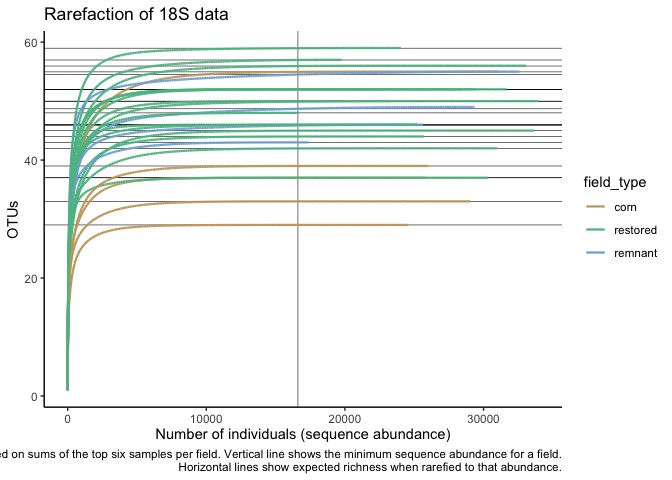
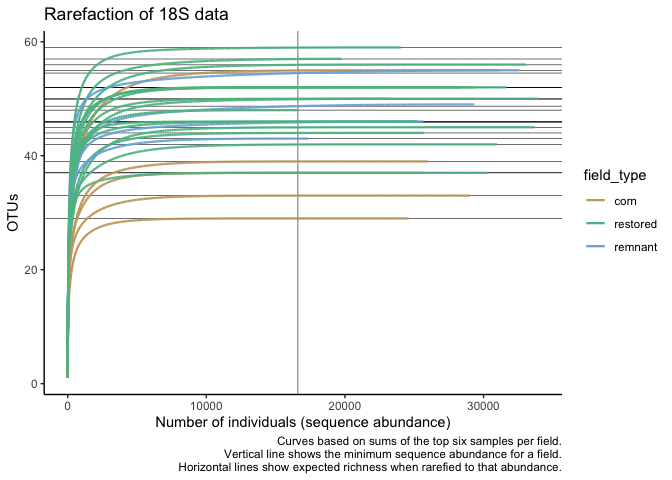
EOD

diff --git a/microbial_diversity.md b/microbial_diversity.md
@@ -35,19 +35,8 @@ Last updated: 13 March, 2023
     id="toc-otus-prepost-corrections">OTUs pre/post corrections</a>
   - <a href="#microbial-diversity" id="toc-microbial-diversity">Microbial
     diversity</a>
-  - <a href="#fungi-its-gene" id="toc-fungi-its-gene">Fungi (ITS gene)</a>
-    - <a href="#diversity-across-field-types"
-      id="toc-diversity-across-field-types">Diversity across field types</a>
-    - <a href="#key-observations" id="toc-key-observations">Key
-      observations:</a>
-    - <a href="#diversity-over-time" id="toc-diversity-over-time">Diversity
-      over time</a>
-  - <a href="#amf-18s-gene" id="toc-amf-18s-gene">AMF (18S gene)</a>
-    - <a href="#key-observations-1" id="toc-key-observations-1">Key
-      observations:</a>
-    - <a href="#diversity-over-time-at-blue-mounds-amf"
-      id="toc-diversity-over-time-at-blue-mounds-amf">Diversity over time at
-      Blue Mounds (AMF)</a>
+    - <a href="#fungi-its-gene" id="toc-fungi-its-gene">Fungi (ITS gene)</a>
+    - <a href="#amf-18s-gene" id="toc-amf-18s-gene">AMF (18S gene)</a>
 
 # Description
 
@@ -345,7 +334,7 @@ ggplot(its_rarecurve, aes(x = Sample, y = Species, group = Site)) +
     labs(x = "Number of individuals (sequence abundance)",
          y = "OTUs",
          title = "Rarefaction of ITS data",
-         caption = "Curves based on sums of the top six samples per field. Vertical line shows the minimum sequence abundance for a field.\nHorizontal lines show expected richness when rarefied to that abundance.") +
+         caption = "Curves based on sums of the top six samples per field.\nVertical line shows the minimum sequence abundance for a field.\nHorizontal lines show expected richness when rarefied to that abundance.") +
     theme_classic()
 ```
 
@@ -353,6 +342,59 @@ ggplot(its_rarecurve, aes(x = Sample, y = Species, group = Site)) +
 
 At the minimum sequencing depth available, there is no consequential
 relationship between sequence abundance and species accumulation.
+
+This result can be corroborated by comparing the total sequences
+recovered per field vs. the richness recovered per field. A relationship
+should not be evident, or fields with more sequences could have bias to
+higher richness based on sequencing depth (or it could be real…there’s
+no way to know). This can be examined visually. The raw ITS data are
+used (these are sums of the top six samples per field as of 2023-03-13).
+
+``` r
+its_seqot <- 
+    data.frame(
+        field_key = spe$its_raw[, 1],
+        seqs = apply(spe$its_raw[, -1], 1, sum),
+        otus = apply(spe$its_raw[, -1] > 0, 1, sum)
+    ) %>% left_join(sites, by = join_by(field_key))
+```
+
+``` r
+ggplot(its_seqot, aes(x = seqs, y = otus)) +
+    geom_point(aes(fill = field_type), shape = 21, size = 2) +
+    scale_fill_discrete_qualitative(palette = "Harmonic") +
+    labs(x = "Sequence abundance per field",
+         y = "OTUs recovered per field",
+         caption = "Raw ITS data used, sum of top 6 samples per field") +
+    theme_classic()
+```
+
+<img src="microbial_diversity_files/figure-gfm/its_seqs_otus_fig-1.png" style="display: block; margin: auto;" />
+
+``` r
+summary(lm(otus ~ seqs, data = its_seqot))
+```
+
+    ## 
+    ## Call:
+    ## lm(formula = otus ~ seqs, data = its_seqot)
+    ## 
+    ## Residuals:
+    ##      Min       1Q   Median       3Q      Max 
+    ## -115.147  -34.027    8.224   54.541   83.505 
+    ## 
+    ## Coefficients:
+    ##              Estimate Std. Error t value Pr(>|t|)  
+    ## (Intercept) 2.141e+02  1.015e+02   2.109   0.0460 *
+    ## seqs        3.335e-03  1.756e-03   1.899   0.0701 .
+    ## ---
+    ## Signif. codes:  0 '***' 0.001 '**' 0.01 '*' 0.05 '.' 0.1 ' ' 1
+    ## 
+    ## Residual standard error: 57.2 on 23 degrees of freedom
+    ## Multiple R-squared:  0.1356, Adjusted R-squared:  0.09801 
+    ## F-statistic: 3.608 on 1 and 23 DF,  p-value: 0.07012
+
+The relationship is poor and not significant.
 
 ### AMF dataset
 
@@ -430,7 +472,7 @@ ggplot(amf_rarecurve, aes(x = Sample, y = Species, group = Site)) +
     labs(x = "Number of individuals (sequence abundance)",
          y = "OTUs",
          title = "Rarefaction of 18S data",
-         caption = "Curves based on sums of the top six samples per field. Vertical line shows the minimum sequence abundance for a field.\nHorizontal lines show expected richness when rarefied to that abundance.") +
+         caption = "Curves based on sums of the top six samples per field.\nVertical line shows the minimum sequence abundance for a field.\nHorizontal lines show expected richness when rarefied to that abundance.") +
     theme_classic()
 ```
 
@@ -498,9 +540,9 @@ Hill’s numbers, brief description:
 div <- Map(calc_diversity, spe[c(2,4)])
 ```
 
-## Fungi (ITS gene)
+### Fungi (ITS gene)
 
-### Diversity across field types
+#### Diversity across field types
 
 Run the linear model and test differences among field types for
 diversity.
@@ -884,7 +926,7 @@ ggplot(
 
 <img src="microbial_diversity_files/figure-gfm/plot_div_its_otu_interaction-1.png" style="display: block; margin: auto;" />
 
-### Key observations:
+#### Key observations:
 
 - The restored field at LP contains very high diversity, co-dominance,
   and evenness of fungi.
@@ -892,7 +934,7 @@ ggplot(
   evenness.
 - Interactions are less an issue with $N_{0}$ and $N_{1}$
 
-### Diversity over time
+#### Diversity over time
 
 Next, trends in diversity are correlated with years since restoration.
 This can only be attempted with Fermi and Blue Mounds sites; elsewhere,
@@ -977,7 +1019,7 @@ soil properties ultimately didn’t change very much.
 Site factors (soil type) are hard to tease out, but in later analyses we
 will try using measured soil chemical properties.
 
-## AMF (18S gene)
+### AMF (18S gene)
 
 Run the linear model and test differences among field types for
 diversity.
@@ -1399,7 +1441,7 @@ ggplot(
 
 <img src="microbial_diversity_files/figure-gfm/plot_div_amf_otu_interaction-1.png" style="display: block; margin: auto;" />
 
-### Key observations:
+#### Key observations:
 
 - Cornfields differ from restored and remnant fields, with lower
   richness, fewer dominant species, and greater dominance of those
@@ -1409,7 +1451,7 @@ ggplot(
   BM and FG reversing it.
 - Particular species may be strong interactors here.
 
-### Diversity over time at Blue Mounds (AMF)
+#### Diversity over time at Blue Mounds (AMF)
 
 It’s probably justified to correlate diversity with field age in Blue
 Mounds’s restored fields. A Pearson’s correlation is used:
